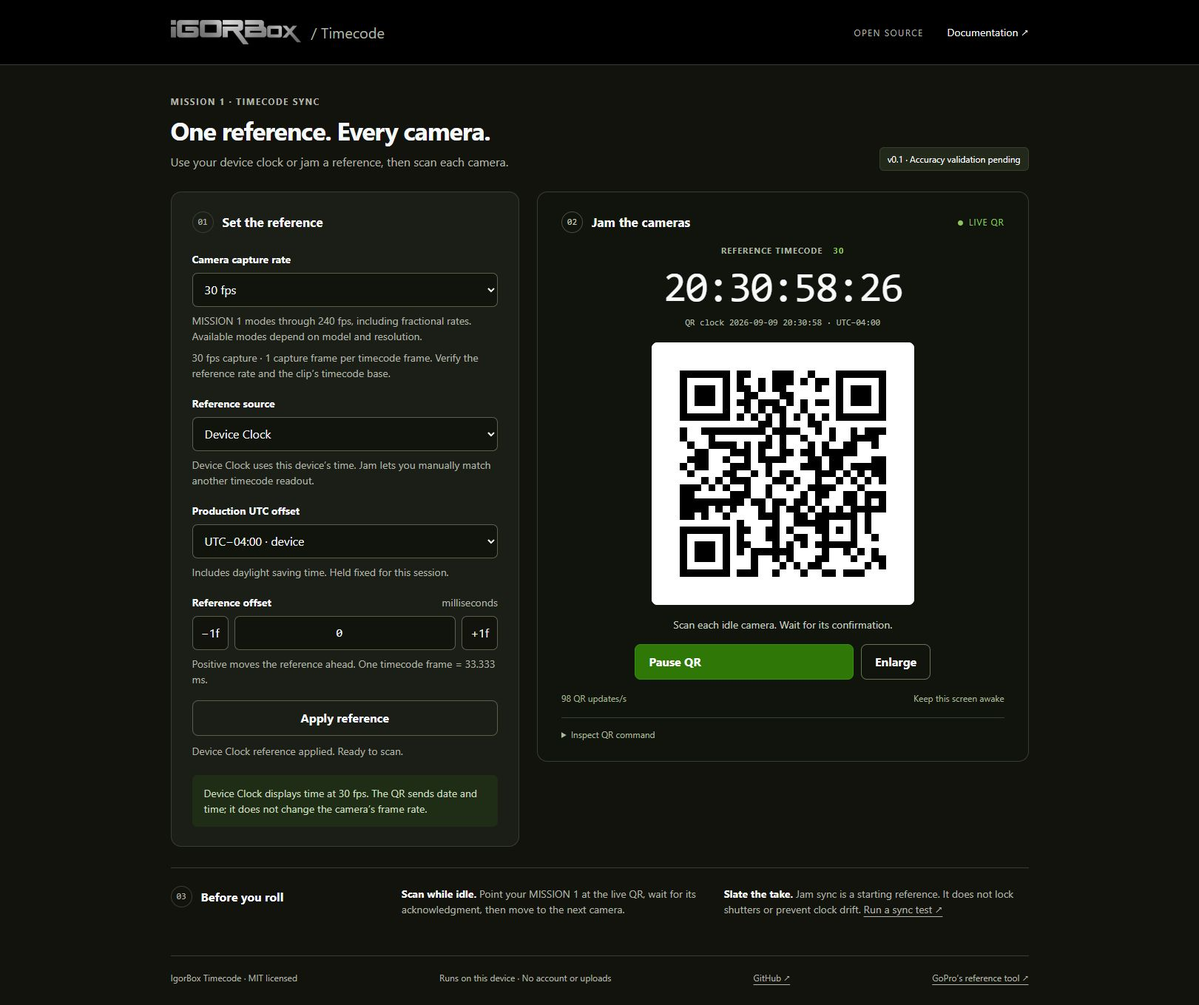
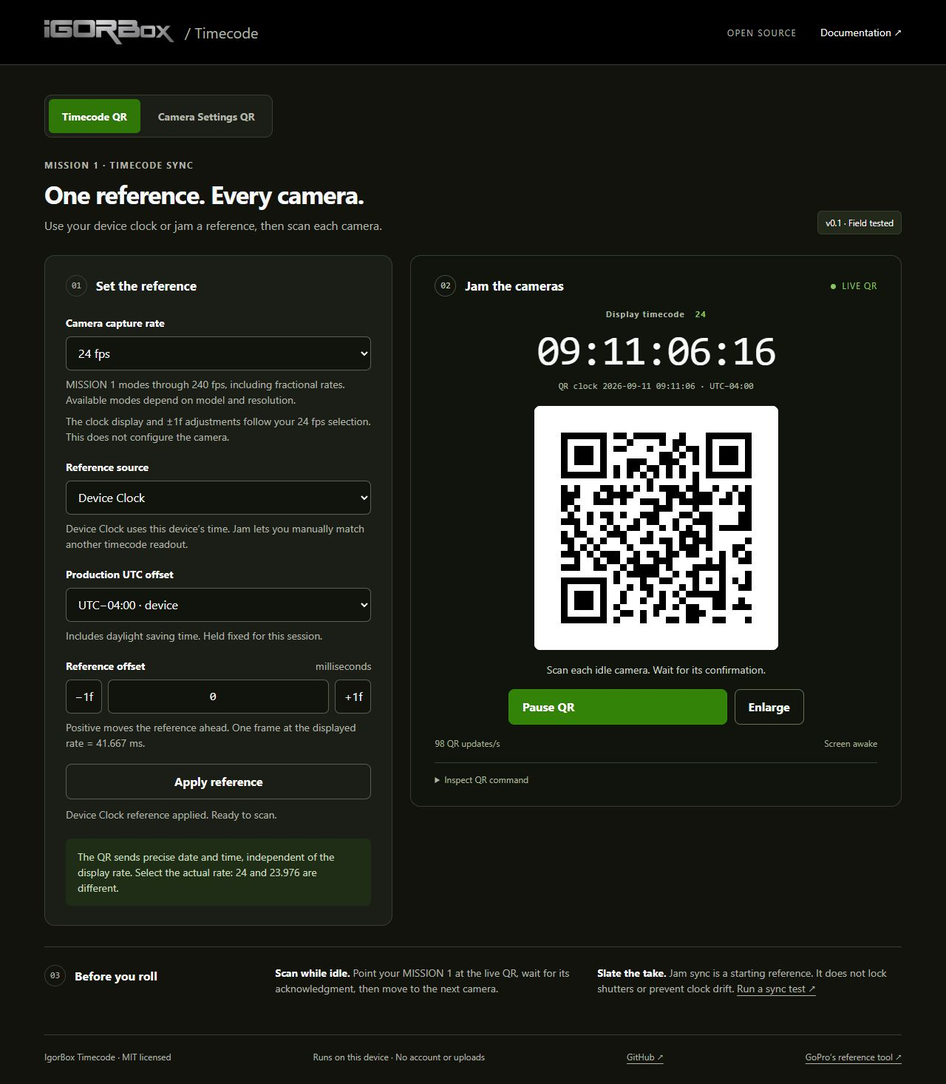
Match Device Clock display to selected capture rate

diff --git a/public/app.js b/public/app.js
@@ -4,7 +4,7 @@
   const T = window.IgorTime;
   const $ = id => document.getElementById(id);
   const el = Object.fromEntries(['rate','capture-rate','capture-note','source','zone','offset','reference-form','manual-fields',
-    'reference-date','reference-tc','apply','reference-status','frame-length','rate-note','rate-label',
+    'reference-date','reference-tc','apply','reference-status','frame-length','rate-note','rate-label','timecode-label',
     'timecode','clock-detail','qr','qr-placeholder','placeholder-title','placeholder-text','signal',
     'scan-status','toggle','fullscreen','jam-panel','refresh-rate','wake-status','payload'].map(id => [id, $(id)]));
   let reference = null, valid = false, active = false, lastMono = null;
@@ -61,24 +61,29 @@
     releaseWake();
   }
   function updateRateNote() {
-    const key = sourceRateKey(), r = T.rateFor(key);
+    const key = readoutRateKey(), r = T.displayRateFor(key);
+    el['frame-length'].textContent = T.displayFrameMs(key).toFixed(3);
+    if (el.source.value === 'device') {
+      el['capture-note'].textContent = `The clock display and ±1f adjustments follow your ${key} fps selection. This does not configure the camera.`;
+      el['rate-note'].textContent = 'The QR sends precise date and time, independent of the display rate.'
+        + (r.den === 1001 ? ' This NDF display counts from midnight and runs about 3.6 seconds per hour behind wall time; the QR clock below shows wall time.' : '')
+        + (r.nominal > 60 ? ' High-speed frame counts are a display preview; the clip’s timecode may use a lower rate.' : ' Select the actual rate: 24 and 23.976 are different.');
+      return;
+    }
     const ratio = T.captureRatio(el['capture-rate'].value, key);
     el['capture-note'].textContent = `${el['capture-rate'].value} fps capture · ${Number(ratio.toFixed(3))} capture frame${Math.abs(ratio - 1) < 1e-8 ? '' : 's'} per timecode frame. Verify the reference rate and the clip’s timecode base.`;
-    el['frame-length'].textContent = T.frameMs(key).toFixed(3);
-    el['rate-note'].textContent = el.source.value === 'device'
-      ? 'Device Clock displays time at 30 fps. The QR sends date and time; it does not change the camera’s frame rate.'
-      : r.den === 1001
+    el['rate-note'].textContent = r.den === 1001
       ? 'NDF timecode runs about 3.6 seconds per hour behind wall time. Check that your source uses the same NDF convention before scanning.'
       : ['25','50'].includes(key) ? `Using ${key} fps timecode. High-speed capture can use a lower timecode base; check a recorded clip before the shoot.`
         : `Using true ${key}.000 fps timecode. Check actual capture and timecode rates: a GoPro mode label may represent a fractional rate. See Documentation.`;
   }
-  function sourceRateKey() {
-    return el.source.value === 'manual' ? el.rate.value : '30';
+  function readoutRateKey() {
+    return el.source.value === 'manual' ? el.rate.value : el['capture-rate'].value;
   }
   function settings() {
-    const key = sourceRateKey();
-    T.rateFor(key);
-    T.captureRatio(el['capture-rate'].value, key);
+    const key = readoutRateKey();
+    T.displayRateFor(el['capture-rate'].value);
+    if (el.source.value === 'manual') T.rateFor(key);
     return { key, capture: el['capture-rate'].value, source: el.source.value,
       zone: T.numberIn(el.zone.value, -720, 840, 'UTC offset', 15),
       offset: T.numberIn(el.offset.value, -T.DAY, T.DAY, 'Offset', 0.001) };
@@ -96,7 +101,6 @@
       valid = true;
       lastMono = mono;
       el.toggle.disabled = false;
-      el['rate-label'].textContent = T.rateFor(s.key).label;
       message(s.source === 'manual' ? 'Jammed at button press. Check against your source.' : 'Device Clock reference applied. Ready to scan.');
       updateReadout(mono);
     } catch (e) { valid = false; el.toggle.disabled = true; message(e.message, true); }
@@ -124,7 +128,11 @@
       message('Midnight rollover: jam the reference again.', true);
       return null;
     }
-    el.timecode.textContent = T.timecode(epoch, reference.key, reference.zone);
+    el['timecode-label'].textContent = reference.source === 'manual' ? 'Source timecode' : 'Display timecode';
+    el['rate-label'].textContent = T.displayRateFor(reference.key).label;
+    el.timecode.textContent = reference.source === 'manual'
+      ? T.timecode(epoch, reference.key, reference.zone)
+      : T.displayTimecode(epoch, reference.key, reference.zone);
     el['clock-detail'].textContent = `QR clock ${p.date} ${T.pad(p.hour)}:${T.pad(p.minute)}:${T.pad(p.second)} · ${utcLabel(reference.zone)}`;
     return epoch;
   }
@@ -164,11 +172,15 @@
   }
   el['reference-form'].addEventListener('submit', applyReference);
   for (const input of [el.rate, el.zone, el.offset, el['reference-date'], el['reference-tc']]) input.addEventListener('input', dirty);
-  // Capture cadence is informational; it does not change the jammed clock or QR.
+  // Update Device Clock's display in place, preserving the clock anchor and QR state.
   el['capture-rate'].addEventListener('input', () => {
     try {
       updateRateNote();
-      if (valid && reference) reference.capture = el['capture-rate'].value;
+      if (valid && reference) {
+        reference.capture = el['capture-rate'].value;
+        if (reference.source === 'device') reference.key = reference.capture;
+        updateReadout(performance.now());
+      }
     } catch (e) { stop('Select a supported camera capture rate, then apply the reference.', true); message(e.message, true); }
   });
   el.source.addEventListener('input', () => {
@@ -178,7 +190,7 @@
   for (const [id, sign] of [['minus-frame', -1], ['plus-frame', 1]]) $(id).addEventListener('click', () => {
     try {
       const value = T.numberIn(el.offset.value, -T.DAY, T.DAY, 'Offset', .001);
-      el.offset.value = Math.max(-T.DAY, Math.min(T.DAY, value + sign * T.frameMs(sourceRateKey()))).toFixed(3);
+      el.offset.value = Math.max(-T.DAY, Math.min(T.DAY, value + sign * T.displayFrameMs(readoutRateKey()))).toFixed(3);
       dirty();
     } catch (e) { stop('Correct the offset, then apply.', true); message(e.message, true); }
   });

diff --git a/public/guide.html b/public/guide.html
@@ -32,15 +32,16 @@
     <li>Choose a common reference: the display device’s clock, or an external timecode readout. Under Jam, select the source’s timecode rate. Confirm the production timezone for either mode.</li>
   </ol>
   <p><strong>Capture through 240 fps:</strong> the camera selector includes 24, 25, 30, 50, 60, 100, 120, 200 and 240 mode families, plus fractional variants. These are documented in <a href="https://gopro.com/en/us/shop/buy-cameras/mission-1-series">GoPro’s MISSION 1 specs</a>; availability depends on model and resolution. Keep reference timecode separate: 240 fps capture with 60 fps timecode gives four captured frames per timecode frame. The capture setting shows this ratio; it does not claim the camera writes a 240 fps SMPTE track. Verify original and slow-motion/conformed files separately.</p>
-  <p><strong>Changing Camera capture rate:</strong> this updates the rate information without stopping the reference clock or requiring Apply reference. A live QR keeps updating, and a paused QR stays paused with Start QR available. This also preserves an existing manual Jam. Changing Source Timecode Rate in Jam still requires a fresh match; the capture selector cannot restore a reference invalidated by edits, sleep or a clock change.</p>
+  <p><strong>Changing Camera capture rate:</strong> Device Clock updates its display rate and ±1f frame duration immediately, without stopping the reference clock or requiring Apply reference. A live QR keeps updating, and a paused QR stays paused with Start QR available. In Jam, the readout stays at the source rate and the existing match is preserved. Changing Source Timecode Rate in Jam still requires a fresh match; the capture selector cannot restore a reference invalidated by edits, sleep or a clock change.</p>
   <h2 id="match">2. Choose a reference and scan</h2>
   <h3 id="device-clock">Device Clock — the default</h3>
   <p>Device Clock starts from the current time on the device displaying this page. The production UTC offset starts at that device’s timezone, including daylight saving time. Leave the reference offset at <strong>0 ms</strong> for the unadjusted clock. After changing settings, select <strong>Apply reference</strong>, then <strong>Start QR</strong>.</p>
   <p>Switching from Jam back to <strong>Device Clock</strong> immediately restores live device time, using the displayed reference offset. The source-rate control is hidden and its previous Jam value no longer affects the readout. The QR stays off until you select <strong>Start QR</strong>.</p>
-  <p>Its readout and ±1f adjustments use <strong>30 fps</strong>. Camera capture rate does not alter that display or configure a camera. The QR contains date and time, with no frame-rate command; each camera uses its own recording settings. A 60 fps slate and this 30 fps display can share wall time while showing different frame digits within each second.</p>
+  <p><strong>Display timecode</strong> and ±1f adjustments follow <strong>Camera capture rate</strong>. At 24 fps, the frame digits count 00–23 and one frame is 41.667 ms. The QR contains date and time, with no frame-rate command; each camera uses its own recording settings. Changing the display rate preserves the applied timestamp, offset and timezone.</p>
+  <p>High-speed frame counts are display previews; a recorded clip may use a lower timecode rate. Counts above 99 use three digits, such as <code>12:00:00:120</code> halfway through a second at 240 fps. Screens cannot show every frame number above their refresh rate. Fractional selections use NDF counting from midnight, which runs about 3.6 seconds per hour behind wall time. The <strong>QR clock</strong> below the readout continues to show wall time.</p>
   <p>If you open this app on an iPad, it uses the <strong>iPad’s clock</strong>, even when the page is hosted on another computer or on Vercel. Hosting delivers the files; timekeeping and QR generation happen on the viewing device. Once loaded, the page does not fetch time from the internet or the hosting computer.</p>
   <h3 id="movieslate-example">Example: MovieSlate on the same iPad</h3>
-  <p class="callout"><strong>Same iPad, shared clock.</strong> MovieSlate in Wall Clock mode and this app in Device Clock mode use the same iPad time reference. That is why this setup needs no manual tap-to-match. At integer rates such as 30 or 60, they share wall-clock seconds; frame digits depend on each display’s rate. Exact recorded camera alignment still needs a slate test.</p>
+  <p class="callout"><strong>Same iPad, shared clock.</strong> MovieSlate in Wall Clock mode and this app in Device Clock mode use the same iPad time reference. That is why this setup needs no manual tap-to-match. For true 24.000 fps capture, select 24 in MovieSlate and 24 here: both displays count frames 00–23. Different display rates can describe the same instant: <code>12:00:00:12</code> at 24 fps and <code>12:00:00:15</code> at 30 fps both mean half a second past noon. Exact recorded camera alignment still needs a slate test.</p>
   <ol>
     <li>In MovieSlate 8, select the intended timecode rate. With no shot running, tap the timecode display, choose <strong>Clock</strong>, then <strong>Done</strong>. This selects Wall Clock mode. See MovieSlate’s <a href="https://www.movie-slate.com/FAQs/10544/9/10/">timecode instructions</a>.</li>
     <li>Open this utility in the browser on <strong>that same iPad</strong>. Leave <strong>Device Clock</strong> selected, keep the iPad’s UTC offset and use <strong>0 ms</strong> reference offset. Set the camera capture selector to your recording mode. No Source Timecode Rate selection is needed in this mode.</li>

diff --git a/public/index.html b/public/index.html
@@ -47,7 +47,7 @@
           <label for="capture-rate">Camera capture rate</label>
           <select id="capture-rate" name="capture-rate"><option value="23.976">23.976 fps</option><option value="24">24 fps</option><option value="25">25 fps</option><option value="29.97">29.97 fps</option><option value="30" selected>30 fps</option><option value="50">50 fps</option><option value="59.94">59.94 fps</option><option value="60">60 fps</option><option value="100">100 fps</option><option value="119.88">119.88 fps</option><option value="120">120 fps</option><option value="200">200 fps</option><option value="239.76">239.76 fps</option><option value="240">240 fps</option></select>
           <p class="hint">MISSION 1 modes through 240 fps, including fractional rates. Available modes depend on model and resolution.</p>
-          <p class="hint" id="capture-note">30 fps capture · 1 capture frame per timecode frame.</p>
+          <p class="hint" id="capture-note">The clock display and ±1f adjustments follow your capture rate selection.</p>
           <label for="source">Reference source</label>
           <select id="source" aria-describedby="source-hint"><option value="device" selected>Device Clock</option><option value="manual">Jam</option></select>
           <p class="hint" id="source-hint">Device Clock uses this device’s time. Jam lets you manually match another timecode readout.</p>
@@ -62,15 +62,15 @@
           <p id="zone-hint" class="hint">Includes daylight saving time. Held fixed for this session.</p>
           <label for="offset">Reference offset <span class="unit">milliseconds</span></label>
           <div class="offset-row"><button id="minus-frame" type="button" aria-label="Subtract one timecode frame">−1f</button><input id="offset" type="number" min="-86400000" max="86400000" step="0.001" value="0" inputmode="decimal"><button id="plus-frame" type="button" aria-label="Add one timecode frame">+1f</button></div>
-          <p class="hint">Positive moves the reference ahead. One timecode frame = <span id="frame-length">33.333</span> ms.</p>
+          <p class="hint">Positive moves the reference ahead. One frame at the displayed rate = <span id="frame-length">33.333</span> ms.</p>
           <button class="secondary apply" id="apply" type="submit">Apply reference</button>
           <p id="reference-status" class="form-status" role="status">Using device clock.</p>
         </form>
-        <aside class="rate-note" id="rate-note">Device Clock displays time at 30 fps. The QR sends date and time; it does not change the camera’s frame rate.</aside>
+        <aside class="rate-note" id="rate-note">The QR sends precise date and time, independent of the display rate.</aside>
       </section>
       <section class="jam-panel" id="jam-panel" aria-labelledby="jam-title">
         <div class="section-title"><span class="step">02</span><h2 id="jam-title">Jam the cameras</h2><span class="signal" id="signal">QR OFF</span></div>
-        <div class="tc-display"><p class="eyebrow">REFERENCE TIMECODE <span id="rate-label">30</span></p><output id="timecode" aria-label="Reference timecode">--:--:--:--</output><p id="clock-detail">Reading clock…</p></div>
+        <div class="tc-display"><p class="eyebrow"><span id="timecode-label">Display timecode</span> <span id="rate-label">30</span></p><output id="timecode" aria-labelledby="timecode-label rate-label">--:--:--:--</output><p id="clock-detail">Reading clock…</p></div>
         <div class="qr-stage" id="qr-stage">
           <canvas id="qr" width="592" height="592" hidden role="img" aria-label="Live GoPro precision-time QR code"></canvas>
           <div id="qr-placeholder"><span class="viewfinder" aria-hidden="true">＋</span><strong id="placeholder-title">Ready when you are</strong><p id="placeholder-text">Check the reference, then start the QR.</p></div>

diff --git a/public/core.js b/public/core.js
@@ -22,6 +22,15 @@
     '100': 100, '119.88': 120000 / 1001, '120': 120,
     '200': 200, '239.76': 240000 / 1001, '240': 240
   });
+  // High-speed readouts are previews, not additional supported Jam source rates.
+  const DISPLAY_RATES = Object.freeze({ ...RATES,
+    '100': Object.freeze({ num: 100, den: 1, nominal: 100, label: '100' }),
+    '119.88': Object.freeze({ num: 120000, den: 1001, nominal: 120, label: '119.88 NDF' }),
+    '120': Object.freeze({ num: 120, den: 1, nominal: 120, label: '120' }),
+    '200': Object.freeze({ num: 200, den: 1, nominal: 200, label: '200' }),
+    '239.76': Object.freeze({ num: 240000, den: 1001, nominal: 240, label: '239.76 NDF' }),
+    '240': Object.freeze({ num: 240, den: 1, nominal: 240, label: '240' })
+  });
   function captureRatio(captureKey, timecodeKey) {
     if (!Object.hasOwn(CAPTURE_RATES, captureKey)) throw new RangeError('Select a supported capture rate.');
     const r = rateFor(timecodeKey);
@@ -32,6 +41,10 @@
   function rateFor(key) {
     if (!Object.hasOwn(RATES, key)) throw new RangeError('Select a supported frame rate.');
     return RATES[key];
+  }
+  function displayRateFor(key) {
+    if (!Object.hasOwn(DISPLAY_RATES, key)) throw new RangeError('Select a supported capture rate.');
+    return DISPLAY_RATES[key];
   }
   function numberIn(value, min, max, label, step = 1) {
     if (String(value).trim() === '') throw new RangeError(`${label} is required.`);
@@ -57,17 +70,24 @@
     };
   }
   function formatFrames(frames, key) {
-    const r = rateFor(key);
+    return formatAtRate(frames, rateFor(key));
+  }
+  function formatAtRate(frames, r) {
     let f = mod(Math.floor(frames), r.nominal * 86400);
     const ff = f % r.nominal;
     f = Math.floor(f / r.nominal);
-    return `${pad(Math.floor(f / 3600))}:${pad(Math.floor(f / 60) % 60)}:${pad(f % 60)}:${pad(ff)}`;
+    return `${pad(Math.floor(f / 3600))}:${pad(Math.floor(f / 60) % 60)}:${pad(f % 60)}:${pad(ff, String(r.nominal - 1).length)}`;
   }
   function timecode(epochMs, key, zoneMinutes) {
     const r = rateFor(key);
     // Integer rational arithmetic matches the GoPro TOD model without 29.97 rounding.
     const frames = Math.floor(localParts(epochMs, zoneMinutes).dayMs * r.num / (1000 * r.den));
     return formatFrames(frames, key);
+  }
+  function displayTimecode(epochMs, key, zoneMinutes) {
+    const r = displayRateFor(key);
+    const frames = Math.floor(localParts(epochMs, zoneMinutes).dayMs * r.num / (1000 * r.den));
+    return formatAtRate(frames, r);
   }
   function parseTimecode(text, key) {
     const r = rateFor(key);
@@ -99,11 +119,13 @@
     return `oT${pad(p.year - 2000)}${pad(p.month)}${pad(p.day)}${pad(p.hour)}${pad(p.minute)}${pad(p.second)}.${pad(p.millisecond, 3)}oTD0oTZ${tz}oTI0`;
   }
   function frameMs(key) { const r = rateFor(key); return 1000 * r.den / r.num; }
+  function displayFrameMs(key) { const r = displayRateFor(key); return 1000 * r.den / r.num; }
   function clockIssue({ wallNow, monoNow, wallBase, monoBase, lastMono }) {
     if (Math.abs((wallNow - wallBase) - (monoNow - monoBase)) > 250) return 'clock';
     if (lastMono != null && monoNow - lastMono > 200) return 'stall';
     return null;
   }
   return Object.freeze({ DAY, RATES, CAPTURE_RATES, captureRatio, pad, rateFor, numberIn, localParts, formatFrames,
-    timecode, parseTimecode, dateMidnight, epochForTimecode, payload, frameMs, clockIssue });
+    timecode, parseTimecode, dateMidnight, epochForTimecode, payload, frameMs, clockIssue,
+    displayRateFor, displayTimecode, displayFrameMs });
 });

diff --git a/public/styles.css b/public/styles.css
@@ -52,7 +52,7 @@ select{padding-right:28px}
 .signal.live:before{content:"";display:inline-block;background:var(--accent);border-radius:50%;width:7px;height:7px;margin-right:8px}
 .tc-display{text-align:center}
 .tc-display .eyebrow{color:#aeb9a3;font-size:11px;letter-spacing:.1em;margin:0 0 2px}
-.tc-display .eyebrow span{color:var(--accent);margin-left:10px}
+.tc-display #rate-label{color:var(--accent);margin-left:10px}
 #timecode{font-family:ui-monospace,SFMono-Regular,Consolas,"Liberation Mono",monospace;font-size:clamp(34px,4.5vw,57px);font-weight:500;letter-spacing:-2px;line-height:1.4;font-variant-numeric:tabular-nums}
 #clock-detail{font:12px ui-monospace,SFMono-Regular,Consolas,monospace;color:#aeb9a3;margin:0 0 20px}
 .qr-stage{width:min(100%,330px);aspect-ratio:1;background:#fff;margin:0 auto;display:grid;place-items:center;border-radius:8px;overflow:hidden}

diff --git a/README.md b/README.md
@@ -6,7 +6,7 @@ Source: [RisingOrchards/gopro-timecode](https://github.com/RisingOrchards/gopro-
 
 A small, static GoPro utility with two tools: **Timecode QR** (Device Clock or manual Jam) and **Camera Settings QR** (editable MISSION presets). No framework, build dependencies, backend, pairing, analytics or CDN. One vendored MIT QR encoder. The software is MIT licensed.
 
-![IgorBox Timecode in dark mode, showing Device Clock at 30 fps and the live GoPro time QR](docs/images/app-screenshot.jpg)
+![IgorBox Timecode in dark mode, showing Device Clock at the selected 24 fps display rate and the live GoPro time QR](docs/images/app-screenshot.jpg)
 
 *Preview captured before the successful shoot report; the app now shows “Field tested.” Open [timecode.igorbox.com](https://timecode.igorbox.com/) to scan a current, animated QR.*
 
@@ -61,9 +61,11 @@ See [camera-settings research, preset commands and omissions](docs/CAMERA_SETTIN
 
 ## Timecode workflow
 
-**Defaults:** Device Clock, 30 fps camera capture and a 30 fps reference display. **Source Timecode Rate** appears only when **Jam** is selected and initially uses 30. Device Clock always displays at 30 fps; switching back from Jam does not retain a hidden source rate. The camera capture selector includes 24, 25, 30, 50, 60, 100, 120, 200 and 240 fps mode families, with fractional choices 23.976, 29.97, 59.94, 119.88 and 239.76. For 8K/60, choose your actual 60 or 59.94 capture mode. Available modes depend on model and resolution; see [GoPro’s specs](https://gopro.com/en/us/shop/buy-cameras/mission-1-series).
+**Defaults:** Device Clock, 30 fps camera capture and a 30 fps display. Device Clock's **Display timecode** and ±1f adjustments follow **Camera capture rate**: choosing 24 displays frames 00–23 and makes one frame 41.667 ms. **Source Timecode Rate** appears only when **Jam** is selected and initially uses 30. Switching back from Jam restores the selected capture display rate. The camera capture selector includes 24, 25, 30, 50, 60, 100, 120, 200 and 240 fps mode families, with fractional choices 23.976, 29.97, 59.94, 119.88 and 239.76. For 8K/60, choose your actual 60 or 59.94 capture mode. Available modes depend on model and resolution; see [GoPro’s specs](https://gopro.com/en/us/shop/buy-cameras/mission-1-series).
 
-**Capture fps and timecode fps are separate.** For example, 240 fps capture and a 60 fps Jam source gives four captured frames per timecode frame. The capture choice displays this relationship without changing the timecode or QR math. Under Jam, set Source Timecode Rate to the actual source rate. This version supports source labels through 60 fps and NDF only. Do not select NDF against a drop-frame source. The Device Clock readout's 30 fps does not change camera recording rates: the QR contains date/time, not a frame-rate command. Verify original and slow-motion/conformed clips separately.
+**The display rate does not configure camera timecode.** The QR contains date/time, with no frame-rate command. Device Clock's high-speed frame counts are display previews; they do not assert that a clip has a 120 or 240 fps timecode track. Counts above 99 use three digits, such as `12:00:00:120` halfway through a second at 240 fps. A screen may skip displayed frame numbers when the capture rate exceeds its refresh rate. Fractional displays use the NDF convention described below and can differ from wall-clock seconds; the QR clock remains unchanged.
+
+Under **Jam**, the **Source timecode** readout and ±1f adjustments follow the source rate independently of capture. For example, 240 fps capture and a 60 fps Jam source gives four captured frames per timecode frame. Set Source Timecode Rate to the actual source rate. Jam supports source labels through 60 fps and NDF only; do not select NDF against a drop-frame source. Verify original and slow-motion/conformed clips separately.
 
 Changing **Camera capture rate** keeps the reference clock running. A live QR continues updating; a paused QR stays paused, with Start QR available. The applied reference, offset and timezone are preserved in both Device Clock and Jam. Changing the actual **Source Timecode Rate** in Jam still requires a fresh manual match; changing capture rate cannot reactivate an invalidated reference.
 
@@ -80,7 +82,7 @@ Use the included [Documentation](public/guide.html) for Device Clock and Jam wor
 
 ### Example: MovieSlate on the same iPad
 
-Set MovieSlate to **Clock / Wall Clock** and use **Device Clock** here on the same iPad, with the device timezone and zero offset. Both use the iPad's time reference, so a manual match is unnecessary. At integer rates such as 30 or 60 they share wall-clock seconds; a 60 fps slate has different frame digits from this app's 30 fps display. The [MovieSlate user guide](https://www.movie-slate.com/ms_online/UserGuide/HTML_docs/help_hd.html?block_526=) documents its wall-clock source and fractional NDF limitations. Confirm actual camera alignment with a slate test.
+Set MovieSlate to **Clock / Wall Clock** and use **Device Clock** here on the same iPad, with the device timezone and zero offset. Both use the iPad's time reference, so a manual match is unnecessary. For a true 24.000 fps production, select 24 in MovieSlate and 24 as the camera capture rate here; both readouts then use frames 00–23. At the same instant, `12:00:00:12` at 24 fps and `12:00:00:15` at 30 fps both represent half a second past noon. Check the clip's actual rate: GoPro documents nominal 24 as 23.976 by default, with true 24 available separately through [Labs extensions](https://gopro.github.io/labs/control/extensions/). The [MovieSlate user guide](https://www.movie-slate.com/ms_online/UserGuide/HTML_docs/help_hd.html?block_526=) documents its wall-clock source and fractional NDF limitations. Confirm actual camera alignment with a slate test.
 
 The page uses the viewing iPad's clock even when hosted by another computer or Vercel. It makes no internet time request. Returning from another app requires **Apply reference**, then **Start QR**. At fractional NDF rates, check numbering explicitly; a shared wall clock does not resolve a DF/NDF mismatch. Use Jam for custom or external timecode. See the [same-iPad example](public/guide.html#movieslate-example).
 

diff --git a/docs/RESEARCH.md b/docs/RESEARCH.md
@@ -23,12 +23,12 @@ Official generator source retrieved from `https://raw.githubusercontent.com/gopr
 - `oTI0` is retained from the current generator. No claim is made about its undocumented camera-side semantics.
 - Fixed UTC offset includes DST; `oTD0` is deliberate. Metadata reports that fixed offset, not a named timezone with automatic future DST transitions.
 - A manual offset can make the camera’s wall-clock metadata differ from real civil time. The UI shows that QR clock alongside predicted timecode.
-- MovieSlate's [user guide](https://www.movie-slate.com/ms_online/UserGuide/HTML_docs/help_hd.html?block_526=) confirms Wall Clock uses device Date & Time and warns about fractional NDF. Both apps on one iPad therefore share a wall-time reference. Matching frame labels and recorded camera accuracy do not follow automatically. Device Clock displays at 30 fps; Jam exposes the source rate. No private API, Bluetooth or LTC input is implemented.
+- MovieSlate's [user guide](https://www.movie-slate.com/ms_online/UserGuide/HTML_docs/help_hd.html?block_526=) confirms Wall Clock uses device Date & Time and warns about fractional NDF. Both apps on one iPad therefore share a wall-time reference. Matching frame labels and recorded camera accuracy do not follow automatically. Device Clock's display follows the capture selector; Jam exposes the independent source rate. No private API, Bluetooth or LTC input is implemented.
 - Current Labs matrix also marks M1/M1P LTC support; older feature pages may lag. The prior conversation’s blanket LTC exclusion should not be treated as current. LTC is outside this utility’s scope.
 
 ## Original implementation choices
 
-GoPro’s [MISSION 1 Series specs](https://gopro.com/en/us/shop/buy-cameras/mission-1-series) list capture mode families through 240 as 24/25/30/50/60/100/120/200/240, with resolution and model restrictions. The UI offers those capture rates and corresponding broadcast fractional variants. Capture cadence is independent of source timecode; high-speed choices do not fabricate 120/240 fps timecode tracks. Capture and Jam rate default to 30. Source Timecode Rate is shown only under Jam; Device Clock uses a fixed 30 fps display and frame nudge. The QR command does not include a camera frame-rate setting.
+GoPro’s [MISSION 1 Series specs](https://gopro.com/en/us/shop/buy-cameras/mission-1-series) list capture mode families through 240 as 24/25/30/50/60/100/120/200/240, with resolution and model restrictions. The UI offers those capture rates and corresponding broadcast fractional variants. Capture cadence is independent of source timecode; high-speed choices do not fabricate 120/240 fps timecode tracks. Capture and Jam rate default to 30. Source Timecode Rate is shown only under Jam. Device Clock's display and frame nudge follow the capture selector, with high-speed counts labeled as previews and fractional rates using rational NDF counting. The QR command does not include a camera frame-rate setting.
 
 ## Field observations
 

diff --git a/docs/HARDWARE_VALIDATION.md b/docs/HARDWARE_VALIDATION.md
@@ -35,7 +35,7 @@ Use this optional record when evaluating a new camera/mode or choosing a re-jam 
 | Elapsed recording duration | |
 | Derived relative drift / chosen tolerance | |
 
-1. Verify one short file at each intended capture mode through 240 fps, including fractional versus integer variants. Separately check its embedded timecode base and source timecode rate (Jam supports 23.976 NDF, 24, 25, 29.97 NDF, 30, 50, 59.94 NDF, 60; Device Clock displays at 30). For 8K/60, ensure actual rates match expectations; a camera menu label alone is insufficient. Check slow-motion and conformed media separately.
+1. Verify one short file at each intended capture mode through 240 fps, including fractional versus integer variants. Separately check its embedded timecode base and source timecode rate (Jam supports 23.976 NDF, 24, 25, 29.97 NDF, 30, 50, 59.94 NDF, 60; Device Clock displays at the selected capture rate, with high-speed counts as previews). For 8K/60, ensure actual rates match expectations; a camera menu label alone is insufficient. Check slow-motion and conformed media separately.
 2. Compare with the source, such as MovieSlate. For a same-iPad Wall Clock workflow compare wall time and account for display-rate differences. Scan while idle. Confirm camera acceptance, then record slate/clap footage.
 3. Verify embedded starting timecode, not file creation timestamps. Align in Premiere by source timecode; inspect the visible/audible cue. Repeat jams to estimate repeatability.
 4. Run 30–60 minutes and compare the end clap. End error minus start error is the relative drift accumulated in that run. Choose a re-jam interval from results.

diff --git a/docs/VALIDATION.md b/docs/VALIDATION.md
@@ -1,5 +1,11 @@
 # Software validation — 2026-09-09
 
+## Display follows capture rate — 2026-09-11
+
+Device Clock now labels its readout **Display timecode** and uses the selected capture rate for frame numbering and ±1f adjustments. Jam labels it **Source timecode** and continues using the independent source rate. Changing capture rate preserves the clock anchor, applied offset/timezone and live/paused QR state. High-speed displays through 240 are previews; supported manual Jam rates still stop at 60. Fractional readouts retain rational NDF counting and explain their difference from wall time.
+
+All **46** Node tests passed, along with the static build. Core/lifecycle checks cover known half-second labels at every integer rate, fractional boundaries, midnight, high-speed padding, frame nudges, mode switching and unchanged QR timestamps across capture selections. Headless Edge browser checks passed for Device Clock and Jam, ongoing QR animation, and high-speed readout fit at 390 and 320 pixels. Desktop and mobile screenshots were visually inspected, and the README screenshot was refreshed at 24 fps. This display change does not claim additional physical sync precision.
+
 ## Timecode capture-rate fix — 2026-09-11
 
 The owner reported that changing Camera capture rate stopped the timecode and prevented Start QR. The capture selector was incorrectly connected to the handler that invalidates an edited time reference. It now updates only rate information and the capture annotation; it preserves the applied clock, offset, timezone, running Jam anchor and live/paused QR state.
